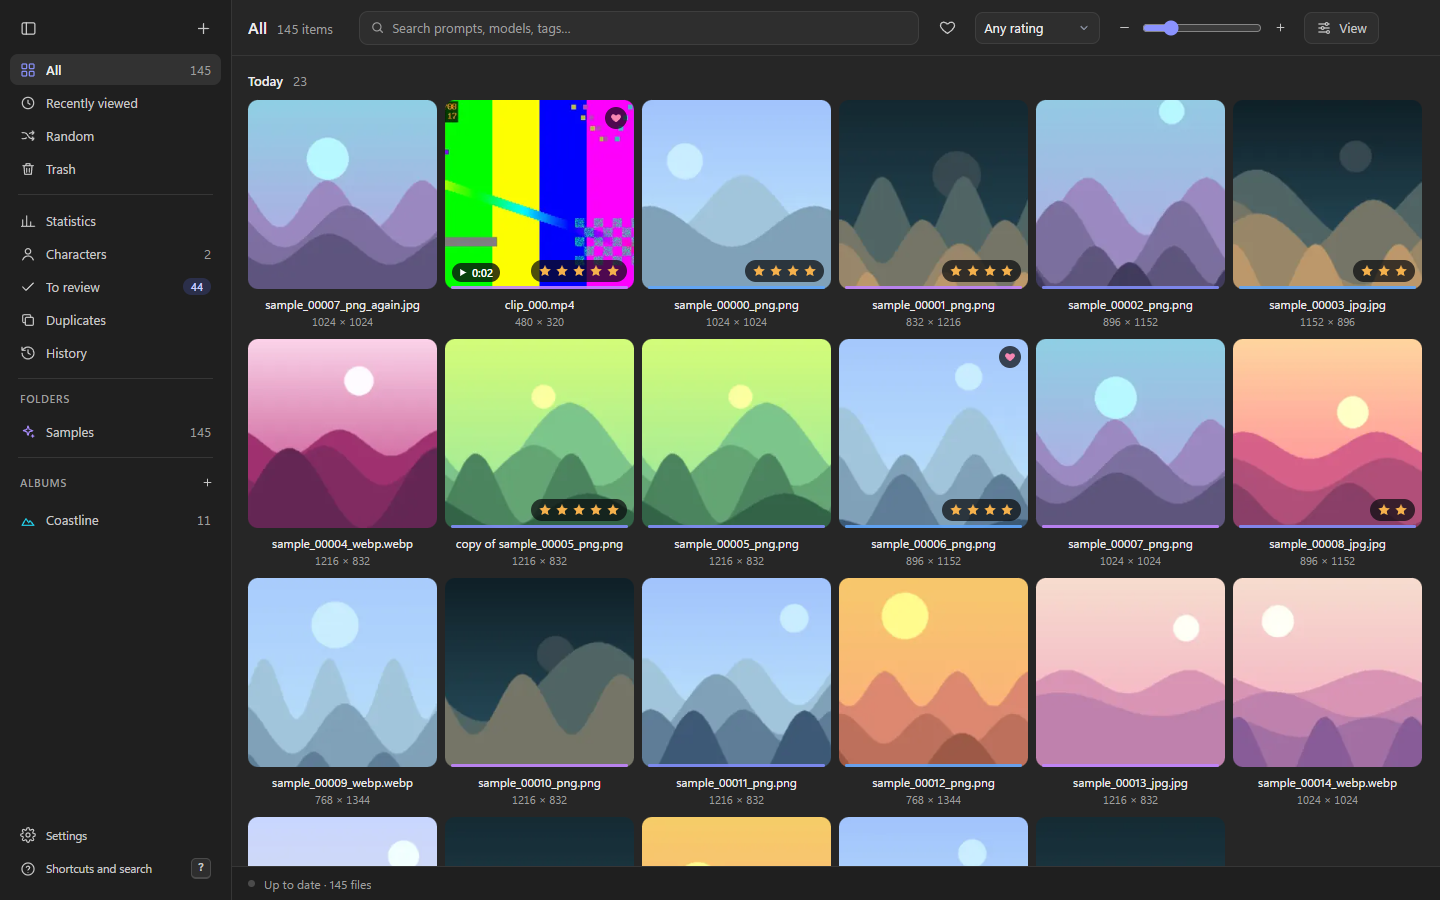
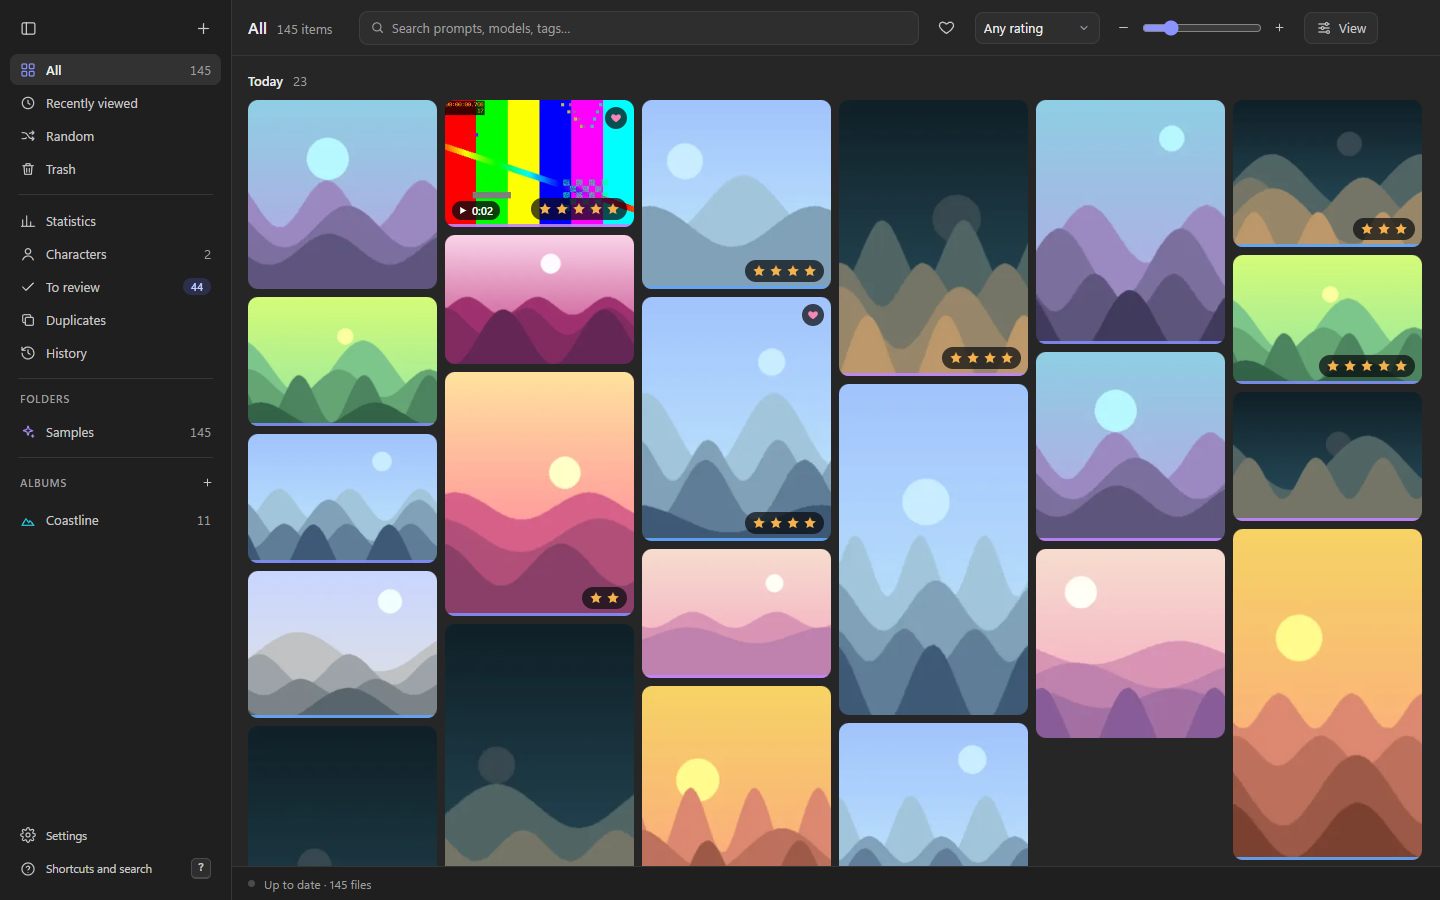
1.1.1: Segoe UI Variable (Windows' own type, Display cut for headings), Waterfall by default (names under the tiles stay a View panel switch), Save as copy is the main way to save an edit (Enter), Replace original beside it

diff --git a/mlgallery/ui/app.js b/mlgallery/ui/app.js
@@ -28,7 +28,7 @@ const state = {
   albums: [], album: null,
   folders: [], view: "all", folder: null, seed: 1 + Math.floor(Math.random() * 1e9),
   sort: store.get("sort", "newest"), kind: store.get("kind", ""), tile: store.get("tile", 176),
-  layout: store.get("layout", "grid"), quality: store.get("quality", "speed"), show: { ...SHOW, ...store.get("show", {}) }, shapes: null,
+  layout: store.get("layout", "waterfall"), quality: store.get("quality", "speed"), show: { ...SHOW, ...store.get("show", {}) }, shapes: null,
   chips: [], text: "",                     // the search: filter chips, and the words typed
   total: 0, groups: [], pages: new Map(), loading: new Map(), gen: 0, focus: -1, maxId: 0, selUpto: 0, stale: false,
 };
@@ -1274,8 +1274,8 @@ function renderEditBar() {
   };
   bar.replaceChildren(
     vz.crop ? h("span.v-crop-size", {}, num("w", "Width"), h("span", { "aria-hidden": "true" }, "×"), num("h", "Height")) : null,
-    h("button.btn.primary.small", { type: "button", title: "Save over the file (Undo puts the original back)", onclick: () => saveEdit(false) }, vz.crop ? "Crop" : "Save"),
-    h("button.btn.small", { type: "button", title: "Keep the original; save the edit beside it", onclick: () => saveEdit(true) }, "Save as copy"),
+    h("button.btn.primary.small", { type: "button", title: "Keep the original; save the edit beside it as \"name (edited)\" (Enter)", onclick: () => saveEdit(true) }, "Save as copy"),
+    h("button.btn.small", { type: "button", title: "Save over the file instead (Undo puts the original back)", onclick: () => saveEdit(false) }, "Replace original"),
     h("button.btn.small", { type: "button", onclick: cancelEdit }, "Cancel"));
 }
 
@@ -1346,7 +1346,7 @@ async function saveEdit(copy) {
 function viewerKey(e) {
   const k = e.key;
   if (vz.edited && k === "Escape") { cancelEdit(); return true; }
-  if (vz.crop && k === "Enter") { saveEdit(false); return true; }
+  if (vz.edited && k === "Enter") { saveEdit(true); return true; }
   if (e.shiftKey && !e.ctrlKey && !e.altKey && !e.metaKey) {
     if (k === "F") { flipView(); return true; }
     if (k === "R") { rotateView(); return true; }

diff --git a/mlgallery/ui/app.css b/mlgallery/ui/app.css
@@ -20,7 +20,8 @@
   --tile-bg: #2e2e2e;
   --radius: 10px;
   --gap: 8px;
-  --sans: "Inter", "Segoe UI Variable Text", "Segoe UI", system-ui, sans-serif;
+  --sans: "Segoe UI Variable Text", "Segoe UI Variable", "Segoe UI", system-ui, sans-serif; /* Windows' own: what the title bar and dialogs use */
+  --display: "Segoe UI Variable Display", "Segoe UI Variable", "Segoe UI", system-ui, sans-serif;
   --mono: "JetBrains Mono", "Cascadia Mono", Consolas, monospace;
   font-family: var(--sans);
   color-scheme: dark;
@@ -763,3 +764,6 @@ select option { background: #2c2c2c; color: var(--text); }
 .v-head { display: flex; flex-direction: column; gap: 4px; }
 .v-fname { margin: 0; font-size: 14px; font-weight: 600; line-height: 1.4; overflow-wrap: anywhere; }
 .v-sub { margin: 0; color: var(--dim); font-size: 12px; font-variant-numeric: tabular-nums; }
+
+/* headings in Segoe's Display cut, made for larger sizes */
+h1, h2, .v-fname, .kpi .v { font-family: var(--display); }

diff --git a/tests/test_ui.py b/tests/test_ui.py
@@ -447,7 +447,8 @@ def test_rotate_in_the_viewer_and_undo(server):
             await e.key("R", shiftKey=True)  # shown turned at once; written only on Save
             await e.wait("!document.getElementById('v-edit').hidden")
             assert api(f"/file/{png['id']}/info")["width"] == png["width"]
-            await e.js("[...document.querySelectorAll('#v-edit .btn')].find(b => b.textContent === 'Save').click(); true")
+            assert await e.js("document.querySelector('#v-edit .btn.primary').textContent") == "Save as copy"  # keeping the original comes first
+            await e.js("[...document.querySelectorAll('#v-edit .btn')].find(b => b.textContent === 'Replace original').click(); true")
             await e.wait("document.querySelector('.toast')?.textContent.startsWith('Saved')")
             info = api(f"/file/{png['id']}/info")
             assert (info["width"], info["height"]) == (png["height"], png["width"])
@@ -455,6 +456,17 @@ def test_rotate_in_the_viewer_and_undo(server):
             await e.js("document.querySelector('.toast .btn').click(); true")  # Undo
             await e.wait("document.querySelector('.toast')?.textContent === 'Undone.'")
             assert api(f"/file/{png['id']}/info")["width"] == png["width"]
+            # Enter saves a copy beside it; the original stays as it was, and Undo moves the copy to the Trash
+            total = api("/files")["total"]
+            await e.js("document.querySelector('.toast')?.remove(); true")
+            await e.key("R", shiftKey=True)
+            await e.wait("!document.getElementById('v-edit').hidden")
+            await e.key("Enter")
+            await e.wait("document.querySelector('.toast')?.textContent.includes('(edited)')")
+            assert api("/files")["total"] == total + 1 and api(f"/file/{png['id']}/info")["width"] == png["width"]
+            await e.js("document.querySelector('.toast .btn').click(); true")
+            await e.wait("document.querySelector('.toast')?.textContent === 'Undone.'")
+            assert api("/files")["total"] == total
             # crop mode: the box and its size; Esc leaves it
             await e.key("C", shiftKey=True)
             await e.wait("document.querySelector('.v-crop') && document.querySelectorAll('#v-edit .v-num').length === 2")

diff --git a/mlgallery/__init__.py b/mlgallery/__init__.py
@@ -1,4 +1,4 @@
 """Model Librarian Gallery: your AI images and videos, with what made them."""
 
-VERSION = "1.1.0"
+VERSION = "1.1.1"
 APP_NAME = "Model Librarian Gallery"

diff --git a/README.md b/README.md
@@ -20,7 +20,7 @@ A Windows app for large libraries of AI generations: it indexes the folders you 
 
 - ⚡ **Fast at any size** — a virtual grid that scrolls the same at 200 files or 250,000; searches and filters answer in a fraction of a second.
 - 🖼 **Grid or Waterfall** — square tiles or each picture at its own shape, a zoom bar (Ctrl + wheel), names and an info line under the tiles, and a viewer where the picture fills the stage: zoom, pan, actual size.
-- ✂ **Light editing** — flip, rotate and crop in the viewer; the prompt and workflow the file carries are kept, Save is undoable, or save an edited copy beside it.
+- ✂ **Light editing** — flip, rotate and crop in the viewer; the prompt and workflow the file carries are kept, Save as copy keeps the original, or replace it (undoable).
 - 🧬 **What made it** — the prompt, settings, checkpoint, LoRAs with their strengths and the ComfyUI workflow of every image and video (ComfyUI, A1111 / Forge, NovelAI, InvokeAI and more), read by Model Librarian's own readers.
 - 🔍 **Search that knows generations** — words in prompts and names, plus `model:`, `lora:`, `tag:`, `character:`, `rating:4`, `is:fav`, `seed:`, `after:` and more, suggested as you type.
 - 📊 **Statistics** — what you made with over time (by model family, in Model Librarian's colours), your most used checkpoints, LoRAs, prompt parts and settings, and the models you have but never use.
